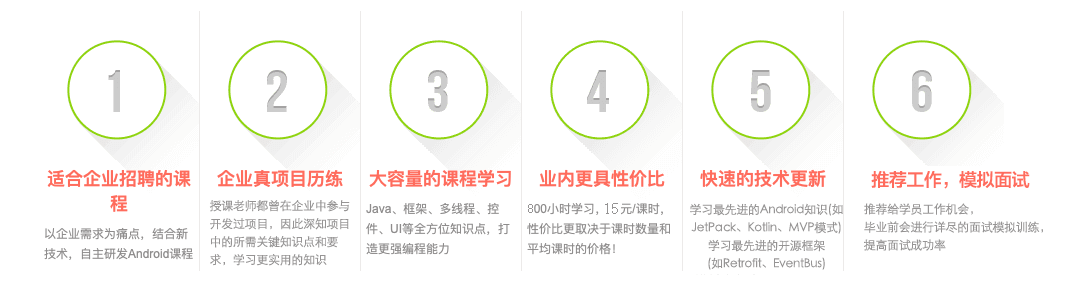
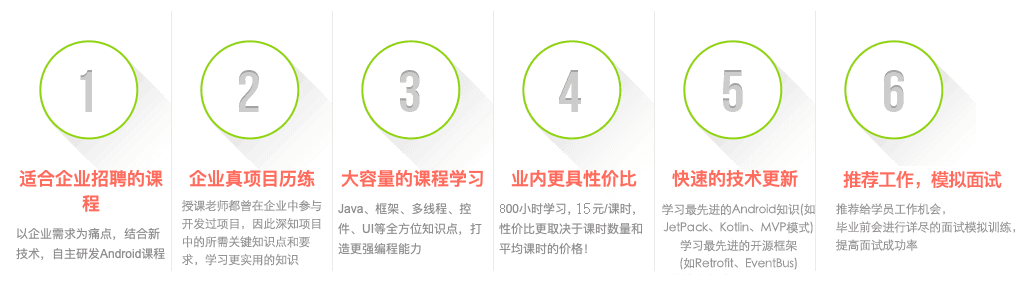
使长图隐藏可滑动显示

diff --git a/zhigao/index.html b/zhigao/index.html
@@ -183,13 +183,13 @@ a:hover {
 
 <div class="content-box">
  <div class="txt_content2">智高Android课程的六大优势</div>
-<div class="download-bg">
+<div class="project_img_outer">
    <img src='img/zhigao_advantage.png'/>
 </div>
 </div>
 <div class="content-box">
  <div class="txt_content2">我们的课程很给力</div>
-<div class="download-bg">
+<div class="project_img_outer">
    <img src='img/android_knowledge.png'/>
 </div>
 </div>
@@ -231,7 +231,7 @@ a:hover {
 
 <div class="content-box">
  <div class="txt_content2">我们的老师很棒</div>
-<div class="download-bg">
+<div class="project_img_outer">
    <img src='img/android_teacher.png'/>
 </div>
 </div>

diff --git a/zhigao/css/index.css b/zhigao/css/index.css
@@ -2,8 +2,8 @@
 
 .layout{
 	width: 100%;
-	max-width: 1080px;
-	min-width: 640px;
+	max-width: 640px;
+	min-width: 320px;
 	margin: 0 auto;
 	background: #Fff;
 }
